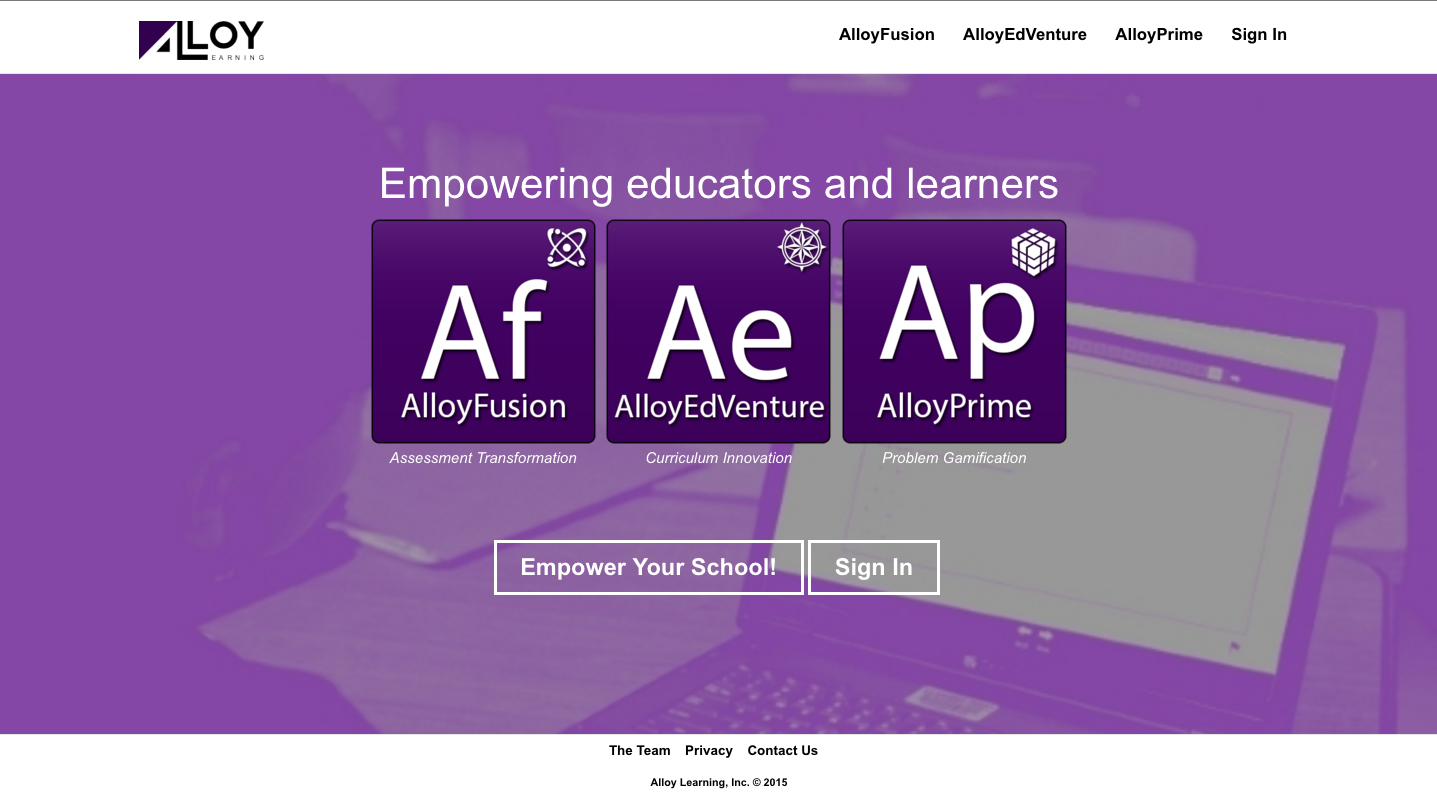
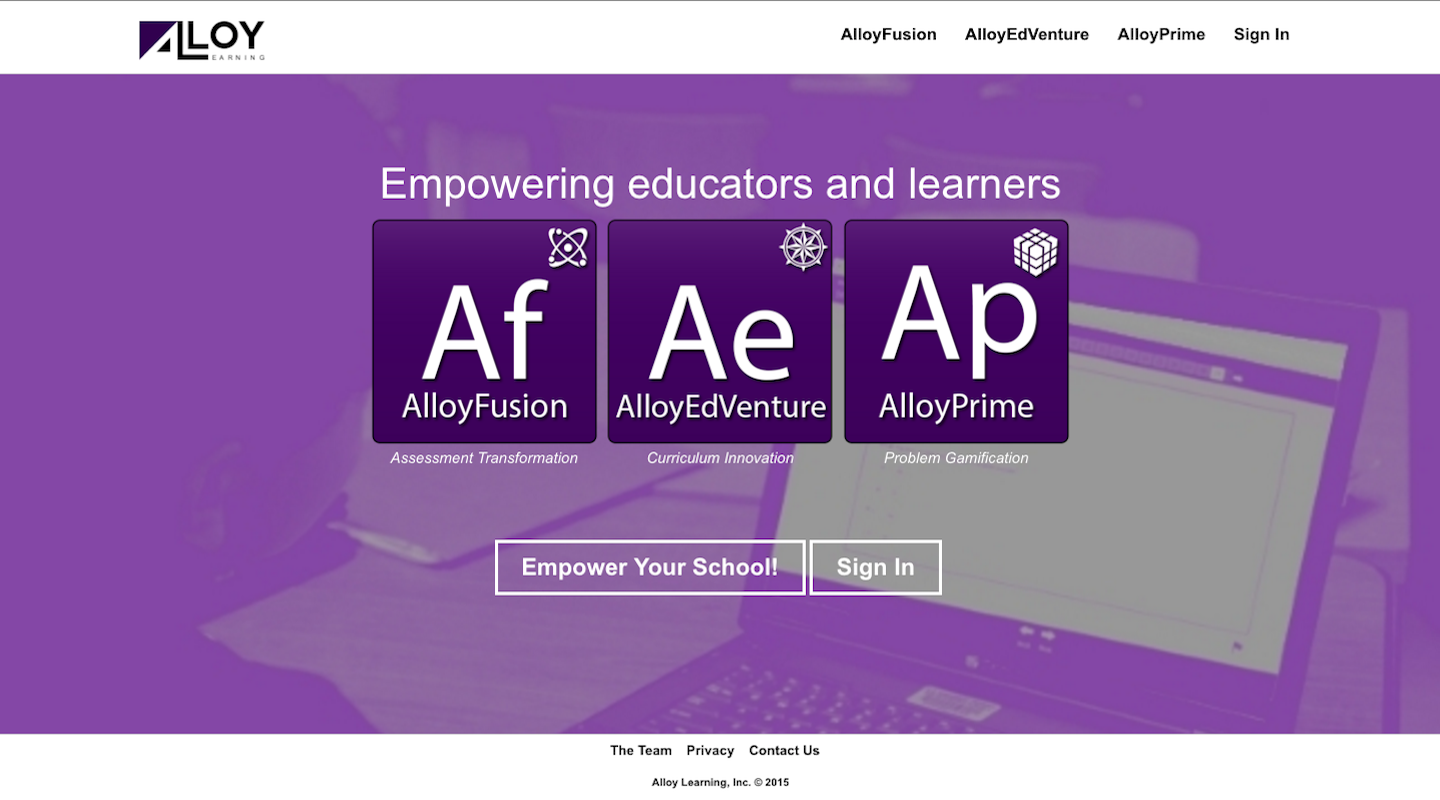
portfolio 2.0

diff --git a/index.html b/index.html
@@ -12,6 +12,7 @@
   <link rel="stylesheet" type="text/css" href="css/bootstrap-social.css">
   <link rel="stylesheet" href="https://maxcdn.bootstrapcdn.com/font-awesome/4.5.0/css/font-awesome.min.css">
   <link rel="stylesheet" type="text/css" href="css/custom.css">
+  <link rel="stylesheet" type="text/css" href="css/simple-slideshow-styles.css">
 
 </head>
   <body>
@@ -46,8 +47,19 @@
         </div>
       </div>
       <div class="row">
-        <div class="col-md-12">
-          <img src="images/ALfrontpg.png" class="img-responsive">
+        <div class="col-md-12 bss1 bss-slides" tabindex="2" data-toggle="modal" data-target="#mainproject">
+          <figure>
+            <img src="images/ALfrontpg.png" class="img-responsive mainpic" width="100%" />
+            <figcaption>alloylearning.org</figcaption>
+          </figure>
+          <figure>
+            <img src="images/AL2.png" class="img-responsive mainpic" width="100%" />
+            <figcaption></figcaption>
+          </figure>
+          <figure>
+            <img src="images/AL3.png" class="img-responsive mainpic" width="100%" />
+            <figcaption>Online quizzes for students</figcaption>
+          </figure>
         </div>
       </div>
       <div class="animated fadeIn feature">
@@ -80,9 +92,9 @@
         </div>
       </div>
     </div>
-    <div class="container-fluid animated fadeInUp about delay">
+    <div class="container-fluid animated about">
       <div class="row">
-        <a name="about"><h2 class="text-center">About</h2></a>        
+        <a name="about"><h2 class="text-center text-uppercase">About</h2></a>        
       </div>
       <div class="row">
         <img class="my-picture img-responsive" src="images/my_picture.jpg" alt="This is a picture of me">
@@ -105,6 +117,32 @@
       </div>
     </div>
 
+    <!-- Modal main project-->
+    <div class="modal fade" id="mainproject" tabindex="-1" role="dialog" aria-labelledby="myModalLabel" aria-hidden="true">
+      <div class="modal-dialog">
+        <div class="modal-content">
+          <div class="modal-header">
+            <h3 class="modal-title" id="myModalLabel">Alloy Learning</h3>
+          </div>
+          <div class="modal-body">
+            <a href="http://www.alloylearning.org/">
+              <img class="img-responsive project" src="images/ALfrontpg.png" alt="Alloy Learning">
+            </a>
+              <p>
+                Alloy Learning provides tools for educators to aid in teaching their students; including online quizzes and lesson modules. John's responsibilities for the site include:
+                <ul>
+                  <li>Developing bug fixes in Javascript and Python (Django)</li>
+                  <li>Creation and maintenance of the internal Wiki site (LAMP stack)</li>
+                  <li>Developing new features</li>
+                </ul>
+              </p>
+          </div>
+          <div class="modal-footer">
+            <button type="button" class="btn btn-default" data-dismiss="modal">Close</button>
+          </div>
+        </div>
+      </div>
+    </div>
     <!-- Modal -->
     <div class="modal fade" id="project1" tabindex="-1" role="dialog" aria-labelledby="myModalLabel" aria-hidden="true">
       <div class="modal-dialog">
@@ -170,6 +208,7 @@
      </div>
     <script type="text/javascript" src="js/jquery-2.2.0.js"></script>
     <script type="text/javascript" src="js/bootstrap.min.js"></script>
+    <script type="text/javascript" src="js/better-simple-slideshow.min.js"></script>
     <script type="text/javascript" src="js/appMain.js"></script>
 </body>
 </html>

diff --git a/css/simple-slideshow-styles.css b/css/simple-slideshow-styles.css
@@ -1,0 +1,137 @@
+.bss-slides{
+  position: relative;
+  display: block;    
+}
+.bss-slides:focus{
+ outline: 0;
+}
+.bss-slides figure{
+  position: absolute;
+  top: 0;
+  width: 100%;
+}
+.bss-slides figure:first-child{
+  position: relative;
+}
+.bss-slides figure img{
+  opacity: 0;
+  -webkit-transition: opacity 1.2s;
+  transition: opacity 1.2s;
+  -webkit-backface-visibility: hidden;
+  backface-visibility: hidden;
+}
+.bss-slides .bss-show{
+  z-index: 2;
+}
+.bss-slides .bss-show img{
+  opacity: 1;
+  -webkit-backface-visibility: hidden;
+  backface-visibility: hidden;
+  position: relative; 
+}
+
+.bss-slides figcaption{
+  position: absolute;
+  font-family: sans-serif;
+  font-size: .8em;
+  bottom: .75em;
+  right: .35em;
+  padding: .25em;
+  color: #fff;
+  background: #000;
+  background: rgba(0,0,0, .25);
+  border-radius: 2px;
+  opacity: 0;
+  -webkit-transition: opacity 1.2s;
+  transition: opacity 1.2s;
+}
+.bss-slides .bss-show figcaption{
+  z-index: 3;
+  opacity: 1;
+}
+.bss-slides figcaption a{
+  color: #fff;    
+}
+.bss-next, .bss-prev{
+  color: #fff;
+  position: absolute;
+  background: #000;
+  background: rgba(0,0,0, .6);
+  top: 50%;
+  z-index: 4;
+  font-size: 2em;
+  margin-top: -1.2em;
+  opacity: .3;
+  -webkit-user-select: none;
+  -moz-user-select: none;
+  -ms-user-select: none;
+  user-select: none;
+}
+.bss-next:hover, .bss-prev:hover{
+  cursor: pointer;
+  opacity: 1;
+}
+.bss-next{
+  right: -1px;
+  padding: 10px 5px 15px 10px;
+  border-top-left-radius: 3px;
+  border-bottom-left-radius: 3px;
+}
+.bss-prev{
+  left: 0;
+  padding: 10px 10px 15px 5px;
+  border-top-right-radius: 3px;
+  border-bottom-right-radius: 3px;
+}
+.bss-fullscreen{
+  display: block;
+  width: 32px;
+  height: 32px;    
+  background: rgba(0,0,0,.4) url(../img/arrows-alt_ffffff_64.png); 
+  -webkit-background-size: contain; 
+  background-size: contain;
+  position: absolute;
+  top: 5px;
+  left: 5px;   
+  cursor: pointer;    
+  opacity: .3;
+} 
+.bss-fullscreen:hover{
+  opacity: .8;   
+}
+:-webkit-full-screen .bss-fullscreen{
+    background: rgba(0,0,0,.4) url(../img/compress_ffffff_64.png);
+    -webkit-background-size: contain;
+    background-size: contain;
+}
+:-moz-full-screen .bss-fullscreen{
+    background: rgba(0,0,0,.4) url(../img/compress_ffffff_64.png);
+    background-size: contain;
+}
+:-ms-fullscreen .bss-fullscreen{
+    background: rgba(0,0,0,.4) url(../img/compress_ffffff_64.png);
+    background-size: contain;
+}
+:full-screen .bss-fullscreen{
+    background: rgba(0,0,0,.4) url(../img/compress_ffffff_64.png);
+    -webkit-background-size: contain;
+    background-size: contain;
+}
+:-webkit-full-screen .bss-fullscreen{
+    background: rgba(0,0,0,.4) url(../img/compress_ffffff_64.png);
+    -webkit-background-size: contain;
+    background-size: contain;
+}
+:-moz-full-screen .bss-fullscreen{
+    background: rgba(0,0,0,.4) url(../img/compress_ffffff_64.png);
+    background-size: contain;
+}
+:-ms-fullscreen .bss-fullscreen{
+    background: rgba(0,0,0,.4) url(../img/compress_ffffff_64.png);
+    background-size: contain;
+}
+:fullscreen .bss-fullscreen{
+    background: rgba(0,0,0,.4) url(../img/compress_ffffff_64.png);
+    -webkit-background-size: contain;
+    background-size: contain;
+}

diff --git a/js/better-simple-slideshow.min.js b/js/better-simple-slideshow.min.js
@@ -1,0 +1,1 @@
+var makeBSS=function(a,b){var c=document.querySelectorAll(a),d={},e={init:function(a,b){this.counter=0,this.el=a,this.$items=a.querySelectorAll("figure"),this.numItems=this.$items.length,b=b||{},b.auto=b.auto||!1,this.opts={auto:"undefined"==typeof b.auto?!1:b.auto,speed:"undefined"==typeof b.auto.speed?1500:b.auto.speed,pauseOnHover:"undefined"==typeof b.auto.pauseOnHover?!1:b.auto.pauseOnHover,fullScreen:"undefined"==typeof b.fullScreen?!1:b.fullScreen,swipe:"undefined"==typeof b.swipe?!1:b.swipe},this.$items[0].classList.add("bss-show"),this.injectControls(a),this.addEventListeners(a),this.opts.auto&&this.autoCycle(this.el,this.opts.speed,this.opts.pauseOnHover),this.opts.fullScreen&&this.addFullScreen(this.el),this.opts.swipe&&this.addSwipe(this.el)},showCurrent:function(a){this.counter=a>0?this.counter+1===this.numItems?0:this.counter+1:this.counter-1<0?this.numItems-1:this.counter-1,[].forEach.call(this.$items,function(a){a.classList.remove("bss-show")}),this.$items[this.counter].classList.add("bss-show")},injectControls:function(a){var b=document.createElement("span"),c=document.createElement("span"),d=document.createDocumentFragment();b.classList.add("bss-prev"),c.classList.add("bss-next"),b.innerHTML="&laquo;",c.innerHTML="&raquo;",d.appendChild(b),d.appendChild(c),a.appendChild(d)},addEventListeners:function(a){var b=this;a.querySelector(".bss-next").addEventListener("click",function(){b.showCurrent(1)},!1),a.querySelector(".bss-prev").addEventListener("click",function(){b.showCurrent(-1)},!1),a.onkeydown=function(a){a=a||window.event,37===a.keyCode?b.showCurrent(-1):39===a.keyCode&&b.showCurrent(1)}},autoCycle:function(a,b,c){var d=this,e=window.setInterval(function(){d.showCurrent(1)},b);c&&(a.addEventListener("mouseover",function(){e=clearInterval(e)},!1),a.addEventListener("mouseout",function(){e=window.setInterval(function(){d.showCurrent(1)},b)},!1))},addFullScreen:function(a){var b=this,c=document.createElement("span");c.classList.add("bss-fullscreen"),a.appendChild(c),a.querySelector(".bss-fullscreen").addEventListener("click",function(){b.toggleFullScreen(a)},!1)},addSwipe:function(a){var b=this,c=new Hammer(a);c.on("swiperight",function(){b.showCurrent(-1)}),c.on("swipeleft",function(){b.showCurrent(1)})},toggleFullScreen:function(a){document.fullscreenElement||document.mozFullScreenElement||document.webkitFullscreenElement||document.msFullscreenElement?document.exitFullscreen?document.exitFullscreen():document.msExitFullscreen?document.msExitFullscreen():document.mozCancelFullScreen?document.mozCancelFullScreen():document.webkitExitFullscreen&&document.webkitExitFullscreen():document.documentElement.requestFullscreen?a.requestFullscreen():document.documentElement.msRequestFullscreen?a.msRequestFullscreen():document.documentElement.mozRequestFullScreen?a.mozRequestFullScreen():document.documentElement.webkitRequestFullscreen&&a.webkitRequestFullscreen(a.ALLOW_KEYBOARD_INPUT)}};[].forEach.call(c,function(a){d=Object.create(e),d.init(a,b)})};

diff --git a/js/appMain.js b/js/appMain.js
@@ -1,10 +1,27 @@
+var opts = {
+            //auto-advancing slides? accepts boolean (true/false) or object
+            auto : { 
+                // speed to advance slides at. accepts number of milliseconds
+                speed : 3000, 
+                // pause advancing on mouseover? accepts boolean
+                pauseOnHover : true 
+            },
+            // support swiping on touch devices? accepts boolean, requires hammer.js
+            //swipe : true 
+        };
+makeBSS('.bss-slides', opts);
+
 $(window).scroll(function() {
 	$('.about').each(function(){
 	var imagePos = $(this).offset().top;
 
 	var topOfWindow = $(window).scrollTop();
-		if (imagePos < topOfWindow+400) {
+		if (imagePos < topOfWindow+700) {
 			$(this).addClass("fadeInUp about-after");
 		}
 	});
-})
+});
+
+$('a[href="#about"').click(function(){
+	$('.about').addClass("fadeIn about-after");
+});

diff --git a/css/custom.css b/css/custom.css
@@ -11,7 +11,10 @@ p {
 	margin-top: 10px;
 }
 
-
+.mainpic {
+	width: 1140px;
+	height: 633.328px;
+}
 .myrow {
     font-size: 0;
 }
@@ -63,7 +66,7 @@ p {
 	background-color: #294860;
 	padding-top: 20px;
 	padding-bottom: 40px;
-	/*visibility: hidden;*/
+	visibility: hidden;
 }
 .about-after {
 	visibility: visible;
